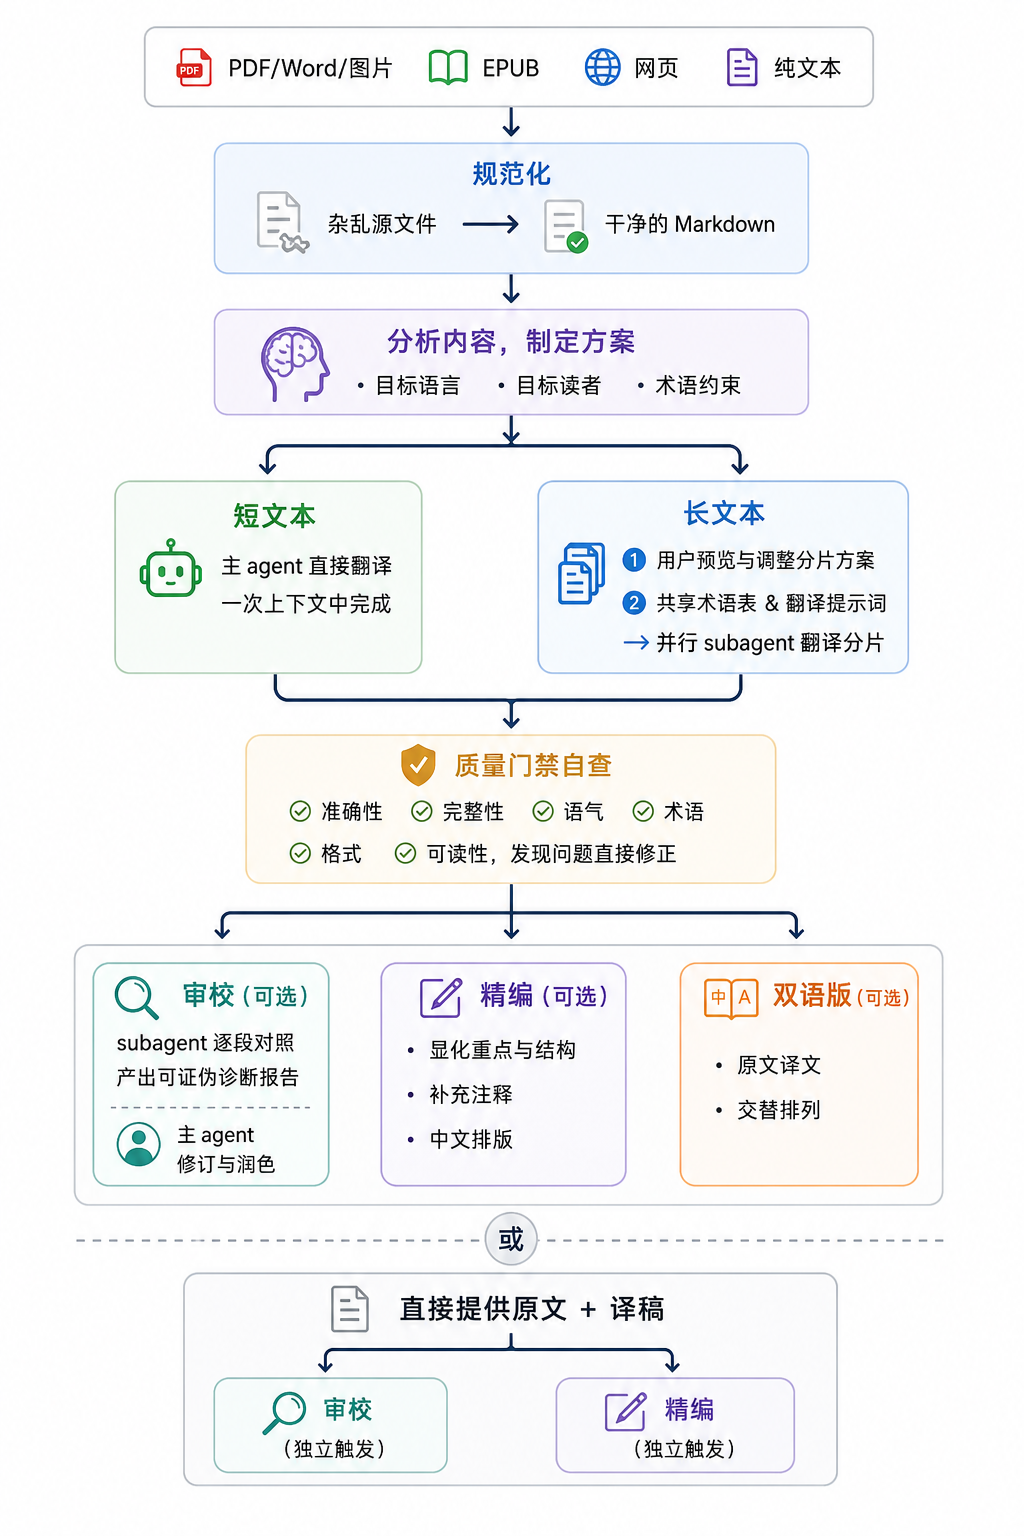
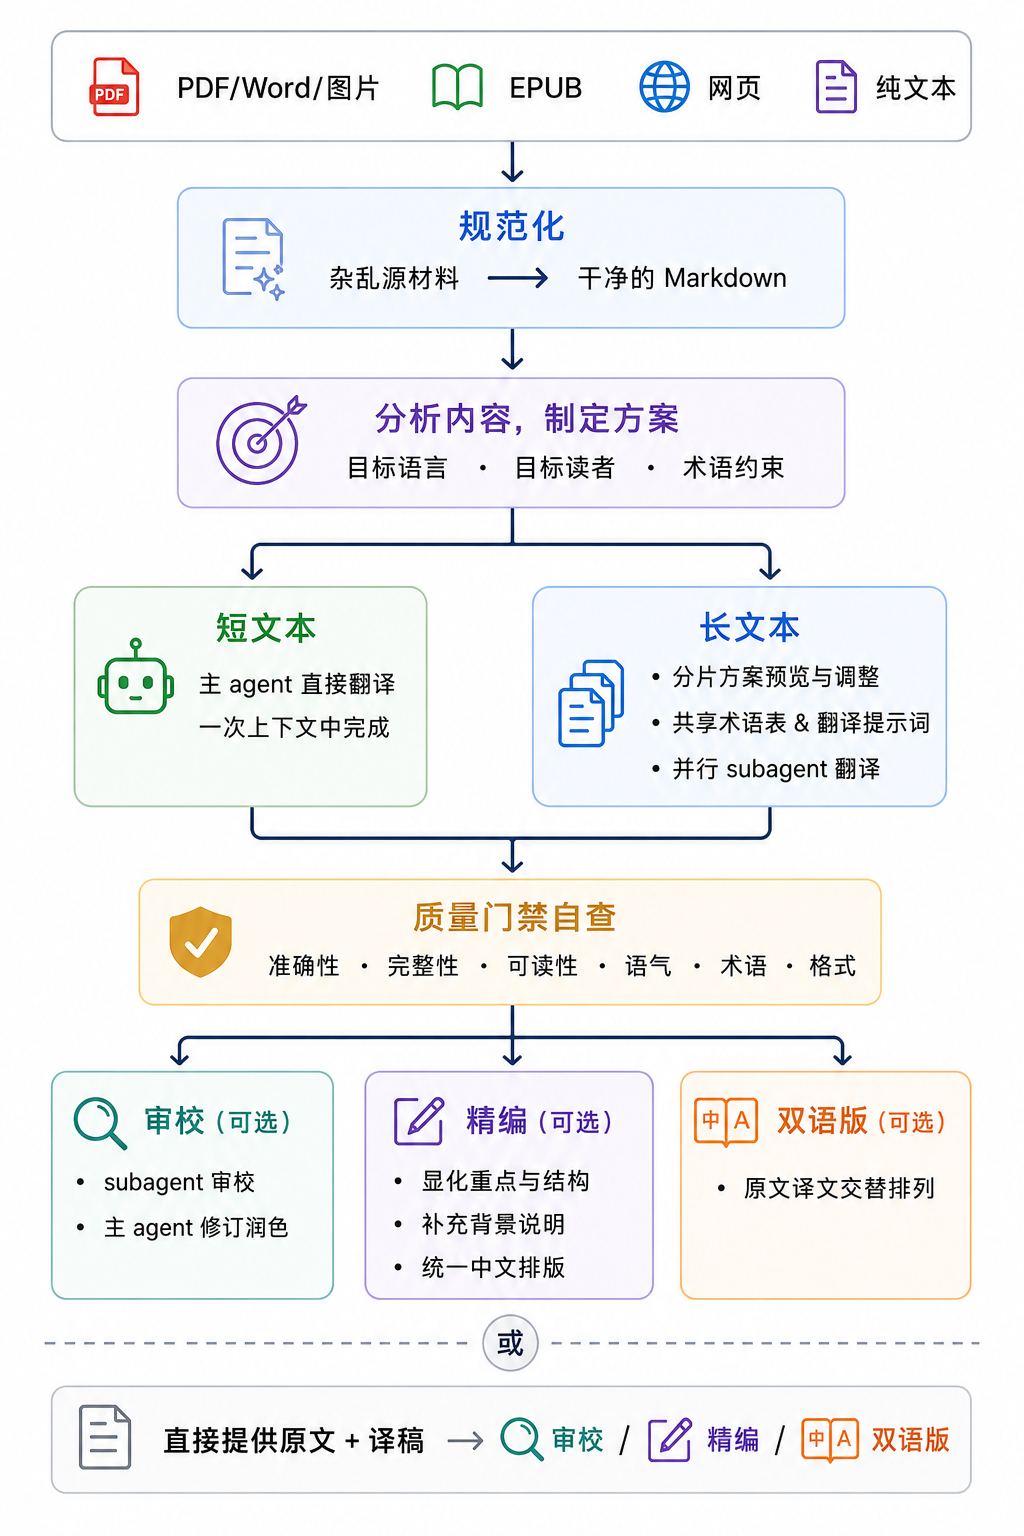
readme

Changed region(s): [[0.0625, 0.0, 0.9375, 0.9688], [0.0625, 0.9062, 0.125, 0.9688], [0.7812, 0.2188, 0.8125, 0.25]]

diff --git a/README.md b/README.md
@@ -1,31 +1,51 @@
 # longtext-translate
 
-**AI agent 翻译 skill**，处理任意长度、任意格式的文本——从一段话到整本书，从纯文本到 PDF、EPUB、Word、图片。告诉 Agent 你想翻译什么，剩下的由它完成。
+面向外文阅读场景的翻译 Agent Skill。把任意格式、长度的材料交给 Agent，拿回可以直接舒服阅读的母语译文。
 
 ## 解决什么问题
 
-直接用 LLM 翻译存在几个短板：
+翻译，尤其是长文本翻译，常卡在这几个地方：
 
-- **长文本质量衰减**：超出上下文窗口后，后半程翻译质量明显下降——术语前后不一致、论证逻辑丢失、段落之间语气不连贯。
-- **翻译腔影响阅读**：句子看似通顺，但行文仍受原文语序和表达习惯束缚，读者需要反复揣摩才能理解，阅读负担并未真正消除。
-- **非文本材料处理繁琐**：源文件是 PDF 或 EPUB 时，需要手动提取文字、清洗排版、处理图片路径，准备工作本身就很耗时。
-- **审校和精编缺乏流程支撑**：翻译完成后想进一步打磨，缺少系统的诊断框架、修正流程和排版规范，难以保证审校质量。
+- 源文件如果是 PDF 或 EPUB，得先手动提取文字、清洗排版、处理图片路径
+- 文本一长，LLM 的输出质量便开始衰减：术语漂移、翻译腔加重、段落间逻辑断裂等等
+- 即使拿到译文，也未必能放心阅读——一边排查翻译偏差，一边在脑中修正拗口表达，理解成本居高不下
+
+实际过程往往是“准备材料 → 翻译 → 磕磕碰碰地读 → 发现问题 → 手动修正润色 → 再读”的反复循环。一篇文献，可能要耗上一两周才能真正吸收。
+
+而这个 Skill 接手了费力的人工环节，你只需在关键决策点介入。
 
 ## 工作流程
 
-<img src="assets/introduction.png" alt="introduction" style="zoom:50%;" />
+<img src="assets/introduction.png" alt="工作流程" style="zoom:40%;" />
 
 ## 主要特性
 
-**多格式输入**　支持 PDF、EPUB、Word、图片、纯文本、Markdown 和 URL，统一转为干净的 Markdown 后再翻译，格式转换细节由 Agent 自动处理。
+**任意格式，统一入口**　PDF、EPUB、Word、图片、网页、纯文本均可——Skill 自动规范化为干净的 Markdown，然后通读全文、分析内容与翻译难点，提出完整的翻译方案供你确认。
 
-**先理解再翻译**　Agent 会先通读材料，理解内容、语域和翻译难点，然后一次性提出完整的翻译方案——包括目标语言、读者定位和术语策略。用户确认后才开始执行。
+**长文本质量稳定**　长文本会先分片，生成共享术语表和翻译提示词后再委派 subagent 并行翻译，确保跨分片的术语和风格统一。每份译文落盘前都经过六个维度的回源抽查，发现问题直接修正。
 
-**长文本一致性**　长文本模式下，分片前先生成共享术语表和翻译简报，每个并行 subagent 均以这两份文件为基准执行翻译，确保跨分片的术语和风格统一。
+**按需继续打磨**　翻译完成后可选择审校（对照原文修正 + 脱离原文润色）、精编（显化重点结构 / 补充背景注释 / 统一中文排版）或双语版（原文与译文逐段对齐）。
 
-**按需深入打磨**　质量门禁之后，可按需选择后续处理。审校：逐段对照原文，产出可证伪的结构化诊断报告。精编：将译文作为独立的目标语言文章做最终打磨，包括显化论证结构、补充背景说明和统一中文排版。双语版：原文与译文按段落对齐、交替排列，便于对照阅读。三项可全选也可只选其一。
+**关键决策由人把关**　分片边界调整、排版修正审阅等高风险且不适合纯文本描述的环节，均提供可视化预览界面，逐条确认后再落地。
 
-**关键决策由人把关**　分片边界调整、排版修正审阅等高风险且不适合纯文本描述的环节，通过本地服务启动 HTML 页面在浏览器中交互完成——长文本翻译前可预览分片方案，查看每片的起止位置和词数，手动调整分片边界后再执行，避免切分位置不当影响翻译质量；精编阶段的排版修正同样提供浏览器预览，用户确认后才落地文件。
+**本地可追溯**　所有中间产物都保存在本地，随时可以回来继续处理。
+
+<table>
+  <tr>
+    <td align="center" width="50%">
+      <a href="assets/chunk-html-demo.png" target="_blank">
+        <img src="assets/chunk-html-demo.png" alt="分片预览与调整页面截图" style="max-width: 480px; width: 100%; border-radius: 8px; box-shadow: 0 2px 12px #0002;"/>
+      </a>
+      <br>分片预览与调整<br>
+    </td>
+    <td align="center" width="50%">
+      <a href="assets/polish-html-demo.png" target="_blank">
+        <img src="assets/polish-html-demo.png" alt="排版修正预览与确认页面截图" style="max-width: 480px; width: 100%; border-radius: 8px; box-shadow: 0 2px 12px #0002;"/>
+      </a>
+      <br>排版修正预览与确认<br>
+    </td>
+  </tr>
+</table>
 
 ## 快速开始
 
@@ -46,15 +66,22 @@ npx skills add zlhhhh8901/longtext-translate
 在 Agent 对话中直接说出你的翻译需求，Skill 会自动触发。比如：
 
 - “把这篇论文翻译成中文：/path/to/paper.pdf”
-- “帮我翻译一下这段英文，目标读者是非技术背景的管理者”
-- “这份译稿质量不太好，帮我审校一下，原文在 original.md，译稿在 draft.md”
+- “帮我翻译一下这段英文，目标读者是非技术背景的普通读者”
+- “这份译稿质量不太好，帮我审校一下，原文在 @original.md，译稿在 @draft.md”
 
-Skill 内置了无障碍流程引导，使用者无需知道其内部实现。
+Skill 内置无障碍流程引导，使用者无需了解内部实现，开箱即用。
+
+## 翻译质量对比
+
+**测试样本**：[Anthropic - When AI builds itself](https://www.anthropic.com/institute/recursive-self-improvement)
+
+**运行模型**：deepseek-v4-pro（推理强度：High，运行环境：ClaudeCode），经「翻译 + 审校 + 精编」全流程产出
+
+**结果对比**：https://compare-gules.vercel.app（译文 A 为 Skill 直出，译文 B 为[数字生命卡兹克](https://mp.weixin.qq.com/s/mJbuKJChVk7ktIHEtKzChg)发布的版本）
 
 ## 费用参考
 
-**测试样本**：《Stein on Writing》英文原版 228 页，10.4 万词。
-> PS: 《哈利·波特与阿兹卡班的囚徒》英文原版 10.7 万词。
+**测试样本**：《Stein on Writing》英文原版 228 页，10.4 万词（体量接近《哈利·波特与阿兹卡班的囚徒》英文原版的 10.7 万词）。
 
 **运行模型**：deepseek-v4-pro（推理强度：High，运行环境：ClaudeCode）
 
@@ -69,22 +96,28 @@ Skill 内置了无障碍流程引导，使用者无需知道其内部实现。
 
 ## 产出文件
 
-所有产出都放在源文件旁边的同名输出目录里（例如 `article.md` → `article-zh/`）：
+翻译结果存放在源 Markdown 文件所在目录，目录名为 `{源文件名}-{目标语言}/`。比如 `article.md` 译后结果放在 `article-zh/` 中。
+
+而源 Markdown 文件的位置取决于输入类型：
+
+-  PDF / EPUB / Word / 图片：规范化后保存在源文件同级目录
+-  内联文本 / URL：保存在 `translate/` 目录
+-  已有文本文件：直接作为源文件使用
+
+目录实际包含的文件因翻译模式和后续选项而异。
 
 ```
 article-zh/
-├── translation.md        ← 译文（必有）
+├── translation.md        ← 最终译文（必有）
 ├── glossary.md           ← 共享术语表（长文本模式）
-├── prompt.md             ← 翻译简报（长文本模式）
+├── prompt.md             ← subagent 共享翻译提示（长文本模式）
 ├── chunk-preview.html    ← 分片预览页面（长文本模式）
-├── chunks/               ← 各分片的原文和译稿（长文本模式）
+├── chunks/               ← 各分片原文与译稿（长文本模式）
 ├── draft.md              ← 审校/精编前的译稿快照
 ├── critique.md           ← 结构化审校报告
 ├── polish-preview.html   ← 排版修正预览页面
-└── bilingual.md          ← 双语对照版
+└── bilingual.md          ← 双语对照文件
 ```
-
-短文本翻译只有 `translation.md` 一个产出。
 
 ## 致谢
 
@@ -92,10 +125,14 @@ article-zh/
 
 此外，以下项目在具体实现环节提供了重要参考或直接支撑：
 
-- [Superpowers](https://github.com/obra/superpowers)：分片预览与排版修正的浏览器交互设计思路参考自该项目。
-- [MinerU](https://github.com/opendatalab/MinerU)：PDF、Word 与图片等文档的规范化提取，直接使用该项目提供的服务。
-- [baoyu-format-markdown](https://github.com/baoyu-io/baoyu-format-markdown)：精编流程中“重点与结构显化”的设计参考自该项目。
-- [chinese-copywriting-guidelines](https://github.com/sparanoid/chinese-copywriting-guidelines)：精编流程中“中文排版与格式修正”的规范依据来源。
+- [MinerU](https://github.com/opendatalab/MinerU)：PDF、Word 与图片等文档的规范化提取，直接使用该项目提供的服务
+- [baoyu-format-markdown](https://github.com/baoyu-io/baoyu-format-markdown)：精编流程中“重点与结构显化”的设计参考自该项目
+- [chinese-copywriting-guidelines](https://github.com/sparanoid/chinese-copywriting-guidelines)：精编流程中“中文排版与格式修正”的规范依据来源
+- [Superpowers](https://github.com/obra/superpowers)：分片预览与排版修正的浏览器交互设计思路参考自该项目
+
+## 友链
+
+[LINUX DO - 新的理想型社区](https://linux.do)
 
 ## 许可证
 
